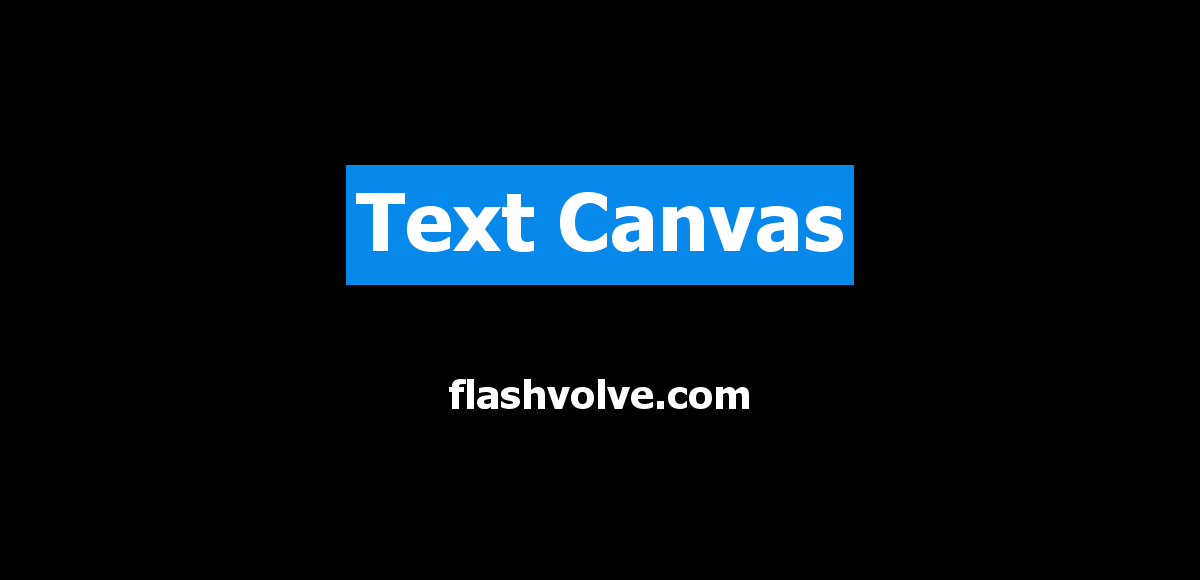
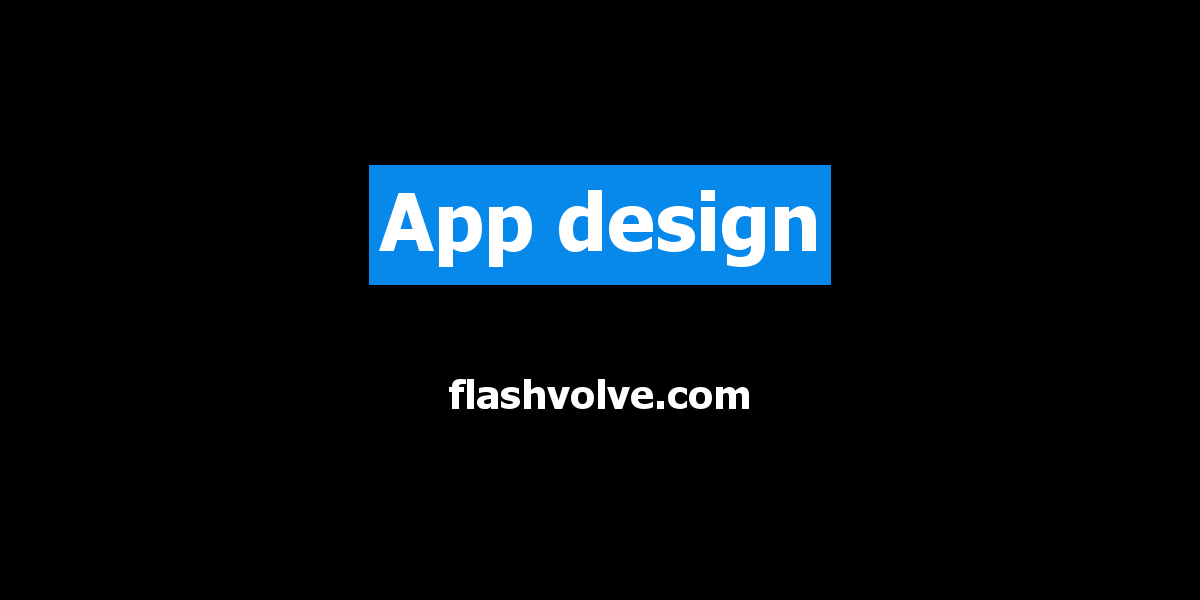
fix: routes views handlebars, controllers and routes

Changed region(s): [[0.2775, 0.2483, 0.7092, 0.4966], [0.37, 0.6207, 0.6475, 0.7138]]

diff --git a/server/api/controllers/upload.controller.js b/server/api/controllers/upload.controller.js
@@ -10,12 +10,12 @@ const downloadFile = require('../helpers/downloadFont');
 module.exports = class UploadController {
 
     static async upload (_req, res) {
-        res.send('/pages/upload')
+        res.render('pages/upload')
     }
 
     static async template (req, res) {
-        let width =  1200
-        let height = 580
+        let width =  parseFloat(req.body.width)
+        let height = parseFloat(req.body.height)
         const canvas = createCanvas(width, height)
         const context = canvas.getContext('2d')
         context.fillStyle = '#000'
@@ -24,10 +24,10 @@ module.exports = class UploadController {
         context.textAlign = 'center'
         context.textBaseline = 'top'
         context.fillStyle = '#0788eb'//cor
-        const text = req.body.textimage
-        const subText = 'flashvolve.com'//req.body.subTitle
+        const text = req.body.firstText
+        const subText = req.body.secondText
         const textWidth = context.measureText(text).width
-        context.fillRect(600 - textWidth / 2 - 10, 170 - 5, textWidth + 20, 120)
+        context.fillRect(600 - textWidth / 2 - 10, 170 - 5, textWidth + 20, 120, 'center')
         context.fillStyle = '#fff'//cor da fonte
         context.fillText(text, 600, 170)
         //context.fillStyle = '#fff'
@@ -37,6 +37,7 @@ module.exports = class UploadController {
         //fs.writeFileSync('./output.png', buffer)
         fs.writeFileSync('./public/images/output.png', buffer)
 
+        console.log('botao salvar')
         res.render('pages/upload')
     }
     

diff --git a/server/api/server.js b/server/api/server.js
@@ -29,9 +29,9 @@ const loginRoute = require('./routes/login.route');
 const userRoute = require('./routes/user.route');
 
 
-app.use('/', imageRoute);
 app.use('/upload', uploadRoute);
 app.use('/login', loginRoute);
 app.use('/user', userRoute);
+app.use('/', imageRoute);
 
 app.listen(process.env.PORT || 3001, () => console.log("Server running here 👉 http://localhost:3001"));

diff --git a/server/api/routes/upload.route.js b/server/api/routes/upload.route.js
@@ -2,6 +2,7 @@ const UploadController = require('../controllers/upload.controller');
 const router = require('express').Router();
 
 router.post('/', UploadController.createImage);
-router.post('/template', UploadController.template);
+router.post('/salvar', UploadController.template);
+router.get('/', UploadController.upload);
 
 module.exports = router;
